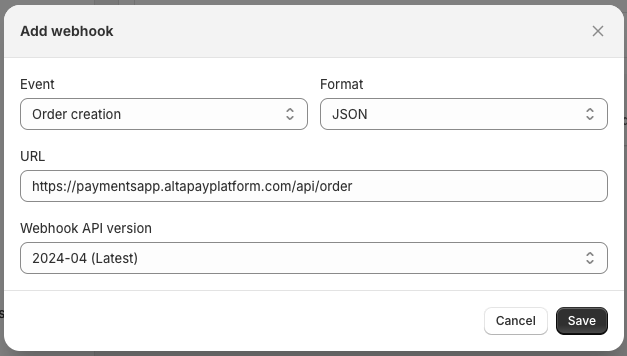
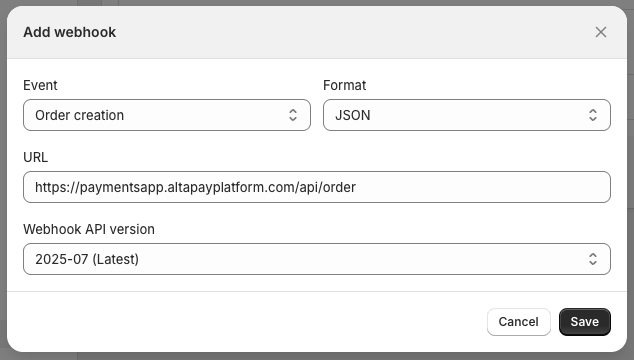
Add section for Authorization Expiry and Capture Recommendations

Changed region(s): [[0.0, 0.0, 1.0, 0.9888], [0.4848, 0.2163, 0.5758, 0.2472]]

diff --git a/wiki.md b/wiki.md
@@ -73,13 +73,15 @@ Installing these apps will enable the web shop to handle payments through AltaPa
 
  - [Using the AltaPay Payments App for Shopify](#using-the-altapay-payments-app-for-shopify)
 
- - [Viewing Payment Details](#viewing-payment-details)
+   * [Viewing Payment Details](#viewing-payment-details)
 
- - [Switching between production and test environments](#environments)
+   * [Authorization Expiry and Capture Recommendations](#authorization-expiry-and-capture-recommendations)
 
- - [Making a test order](#making-a-test-order)
+   * [Switching between production and test environments](#environments)
+
+   * [Making a test order](#making-a-test-order)
   
- - [Reconcile Orders](#reconcile-orders)
+   * [Reconcile Orders](#reconcile-orders)
 
 ## Prerequisites
 
@@ -407,7 +409,7 @@ By default, the Shopify payment ID is used as the reconciliation identifier on A
       | Event                        | Order creation                                               |
       | Format                       | JSON                                                         |
       | URL                          | URL for each app type in mentioned [below](#webhook-urls)    |
-      | Webhook API version          | 2024-04                                                      |
+      | Webhook API version          | 2025-07                                                      |
 
       #### Webhook URLs
 
@@ -634,7 +636,10 @@ You can view details on payments in the Shopify app, including payment method, f
 5. Click on **Information from the gateway** to see the gateway Order ID.
 6. Copy the payment ID and search the order on the gateway side.
 
-## Environments
+### Authorization Expiry and Capture Recommendations
+By default, we set the authorization expiry to 90 days per order so that Shopify does not automatically mark it as expired and continues to allow capture requests. However, with most acquirers, authorizations are typically valid for only 30 days. Captures attempted after this period may still succeed, but they are not guaranteed.
+
+### Environments
 
 **Switching between production and test environments**
 
@@ -653,7 +658,7 @@ If you want to test the gateway in the test environment and switch to the produc
     > 
     > Ensure the relevant account is defined in the app, as described in [Configuring the AltaPay Payments App](#configuring-the-altapay-payments-app).
 
-## Making a test order
+### Making a test order
 
 In order to place an order and pay with the AltaPay Omni-Channel test gateway, you should first ensure the test environment is properly set up:
 
@@ -681,7 +686,7 @@ In order to place an order and pay with the AltaPay Omni-Channel test gateway, y
   > The payment can be released, captured and/or refunded as well.
 
 
-## Reconcile Orders
+### Reconcile Orders
 In order to reconcile payments on AltaPay please follow the steps below:
 
 1. Navigate to the **Admin** page, using the URL.
